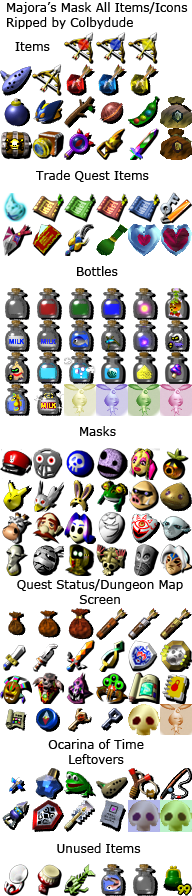
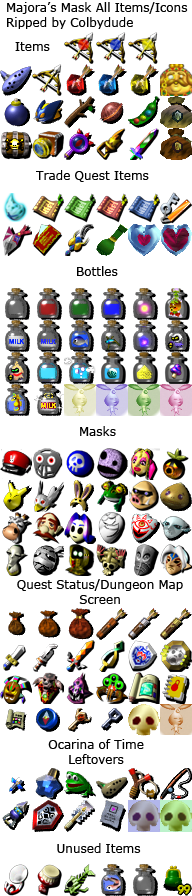
Added the royal wallet to the item display.
Used a temporary image of the Skyward Sword Tycoon wallet until I can get an image of the royal wallet.

Changed region(s): [[0.8125, 0.0625, 1.0, 0.125]]

diff --git a/Forms/Extra Functionality/ItemDisplay.cs b/Forms/Extra Functionality/ItemDisplay.cs
@@ -127,6 +127,7 @@ namespace MMR_Tracker.Forms
             Images.Add("GreatFairySword", GetImage(4, 4));
             Images.Add("AdultWallet", GetImage(5, 3));
             Images.Add("GiantWallet", GetImage(5, 4));
+            Images.Add("RoyalWallet", GetImage(5, 2));
             //Trade Items
             Images.Add("MoonTear", GetImage(0, 6));
             Images.Add("LandDeed", GetImage(1, 6));
@@ -349,7 +350,7 @@ namespace MMR_Tracker.Forms
                 CreateCountablePictureBox("SnowheadFairy", new List<string> { "Snowhead Stray Fairy" }, Spacing);
                 CreateCountablePictureBox("Magic", new List<string> { "Magic Power", "Extended Magic Power" }, Spacing);
 
-                CreateProgressivePictureBox("AdultWallet", new Dictionary<string, string> { { "UpgradeAdultWallet", "null" }, { "UpgradeGiantWallet", "null" } }, Spacing);
+                CreateProgressivePictureBox("AdultWallet", new Dictionary<string, string> { { "UpgradeAdultWallet", "null" }, { "UpgradeGiantWallet", "null" }, { "UpgradeRoyalWallet", "null" } }, Spacing);
                 CreatePictureBox("GyorgsRemains", "RemainsGyorg", Spacing);
                 CreatePictureBox("Map|3", "ItemGreatBayMap", Spacing);
                 CreatePictureBox("Compass|3", "ItemGreatBayCompass", Spacing);
@@ -615,8 +616,8 @@ namespace MMR_Tracker.Forms
                 DrawCountableItem("SmallKey|2", new List<string> { "Snowhead Small Key" }, Spacing, true);
                 DrawCountableItem("SnowheadFairy", new List<string> { "Snowhead Stray Fairy" }, Spacing, true);
                 DrawCountableItem("Magic", new List<string> { "Magic Power", "Extended Magic Power" }, Spacing);
-
-                DrawHighestTierItem("AdultWallet", new Dictionary<string, string> { { "UpgradeAdultWallet", "null" }, { "UpgradeGiantWallet", "null" } }, Spacing, new List<string> { "AdultWallet", "GiantWallet" });
+                
+                DrawHighestTierItem("AdultWallet", new Dictionary<string, string> { { "UpgradeAdultWallet", "null" }, { "UpgradeGiantWallet", "null" }, { "UpgradeRoyalWallet", "null" } }, Spacing, new List<string> { "AdultWallet", "GiantWallet", "RoyalWallet" });
                 DrawItem("GyorgsRemains", "RemainsGyorg", Spacing);
                 DrawItem("Map|3", "ItemGreatBayMap", Spacing);
                 DrawItem("Compass|3", "ItemGreatBayCompass", Spacing);
